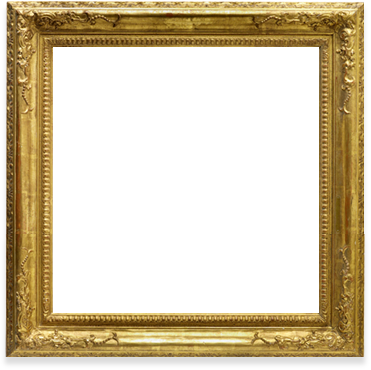
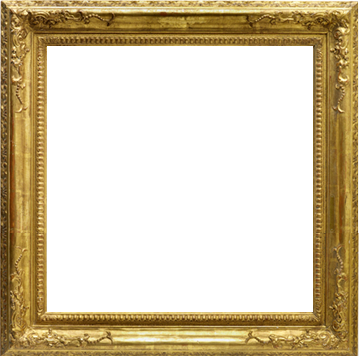
added markup.  added set up frame and buttons (previous and next)

diff --git a/app/www/styles/master.css b/app/www/styles/master.css
@@ -19,9 +19,10 @@ table { border-collapse: collapse; border-spacing: 0; }
 
 /* partials: site styles go here */
 /* import your sprites here */
-/* @import "buttons/*.png"; */
+.buttons-sprite, .carousel #previous, .carousel #next { background: url('../media/images/buttons-sd201e56860.png') no-repeat; }
+
 /* Global */
-.ir { display: block; text-indent: -999em; overflow: hidden; background-repeat: no-repeat; text-align: left; direction: ltr; }
+.ir, .carousel #previous, .carousel #next { display: block; text-indent: -999em; overflow: hidden; background-repeat: no-repeat; text-align: left; direction: ltr; }
 
 .hidden { display: none; visibility: hidden; }
 
@@ -40,9 +41,15 @@ table { border-collapse: collapse; border-spacing: 0; }
 a { color: black; }
 
 /* Body */
-/* PageWrapper */
+/* Page Wrapper */
 /* Global Header */
-/* Main Content */
+.carousel a { margin: 0 15px; }
+.carousel #previous { background-position: 0 0; width: 12px; height: 19px; cursor: pointer; border: 0; display: inline-block; }
+.carousel #next { background-position: 0 -19px; width: 12px; height: 19px; cursor: pointer; border: 0; display: inline-block; }
+.carousel .image-container { position: relative; width: 359px; height: 356px; display: inline-block; vertical-align: middle; }
+.carousel .frame { position: absolute; top: 0; left: 0; width: 359px; height: 356px; z-index: 10; background: url('../media/images/frame.png?1362764701'); -webkit-box-shadow: 0px 6px 10px -2px #888888; -moz-box-shadow: 0px 6px 10px -2px #888888; box-shadow: 0px 6px 10px -2px #888888; }
+.carousel .image { margin: 3px 0 0 7px; }
+
 /* Global Footer */
 .overlay { position: fixed; top: 0; left: 0; width: 100%; height: 100%; background: rgba(0, 0, 0, 0.75); z-index: 998; }
 
@@ -86,7 +93,7 @@ and (min-width : 1824px) { /* Styles */ }
   a, a:visited { color: #444 !important; text-decoration: underline; }
   a[href]:after { content: " (" attr(href) ")"; }
   abbr[title]:after { content: " (" attr(title) ")"; }
-  .ir a:after, a[href^="javascript:"]:after, a[href^="#"]:after { content: ""; }
+  .ir a:after, .carousel #previous a:after, .carousel #next a:after, a[href^="javascript:"]:after, a[href^="#"]:after { content: ""; }
   pre, blockquote { border: 1px solid #999; page-break-inside: avoid; }
   thead { display: table-header-group; }
   tr, img { page-break-inside: avoid; }

diff --git a/app/sass/_layout.scss b/app/sass/_layout.scss
@@ -1,5 +1,5 @@
 /* import your sprites here */
-/* @import "buttons/*.png"; */
+ @import "buttons/*.png"; 
 
 /* Global */
 .ir { display: block; text-indent: -999em; overflow: hidden; background-repeat: no-repeat; text-align: left; direction: ltr; }
@@ -19,20 +19,49 @@ body {
 
 }
 
-/* PageWrapper */
-#PageWrapper {
+/* Page Wrapper */
+#page-wrapper {
 
 }
 
 /* Global Header */
 #global-header {
-  h1 {
-    a {  }
-  }
+
 }
 
-/* Main Content */
-#MainContent {
+.carousel {
+	a {
+		margin: 0 15px;
+	}
+	#previous {
+		@include btn(previous);
+		display: inline-block;
+	}
+	#next {
+		@include btn(next);
+		display: inline-block;
+	}
+
+	.image-container {
+		position: relative;
+		width: 359px;
+		height: 356px;
+		display: inline-block;
+		vertical-align: middle;
+	}
+	.frame {
+		position: absolute;
+		top: 0;
+		left: 0;
+		width: 359px;
+		height: 356px;
+		z-index: 10;
+		background: image-url('frame.png');
+		@include box-shadow(0px 6px 10px -2px #888);
+	}
+	.image {
+		margin: 3px 0 0 7px;
+	}
 
 }
 

diff --git a/app/www/lib/php/template/header.php b/app/www/lib/php/template/header.php
@@ -50,9 +50,15 @@
 	</script>
 </head>
 <body class="<?php if (isset($class)) echo $class; ?>">
-	<div id="PageWrapper">
+	<nav id="social">
+		like / tweet / +1
+	</nav>
+	
+	<div id="page-wrapper">
 		<header id="global-header">
-			<h1><a href="#">ma</a></h1>
+			<h1 class="title">#meetingart gallery</h1>
+			<p>Celebrating all the creativity that transpires in long meetings</p>
+			<p class="instructions">To submit:<br />Instagram your art made in meetings with the name and #meetingart</p>
 		</header>
 
-		<div id="MainContent" role="main">
+		<div id="main-content" role="main">

diff --git a/app/www/lib/php/view/index.php b/app/www/lib/php/view/index.php
@@ -1,7 +1,19 @@
 <?php include DIR_TMPL.'/header.php'; ?>
 
-<h1><?php echo $content; ?></h1>
+<div class="carousel">
+	<a href="" id="previous">previous</a>
+	<div class="image-container">
+		<div class="frame"></div>
+		<div class="image">
+			<img src="http://www.turntablekitchen.com/_uploads/Elliott_smith_figure_8_cover-370x370-350x350.jpg"/>
+		</div>
+	</div>
+	<a href="" id="next">next</a>
+</div>
 
-<a href="#" class="show-modal">show a modal</a>
+<footer class="caption">
+	<cite>@{{handle}}</cite>
+	<p>{{{comment}}}</p>
+</footer>
 
 <?php include DIR_TMPL.'/footer.php'; ?>

diff --git a/app/www/lib/php/system/Config.php b/app/www/lib/php/system/Config.php
@@ -50,7 +50,7 @@ class Config {
 				
 		switch ($this->server_name) {
 
-			case "boiler.evb.com":
+			case "meeting-art.biz":
 				$this->environment = LOCAL;
 				$this->dbhost = 'localhost';
 				$this->dbuser = "root";
